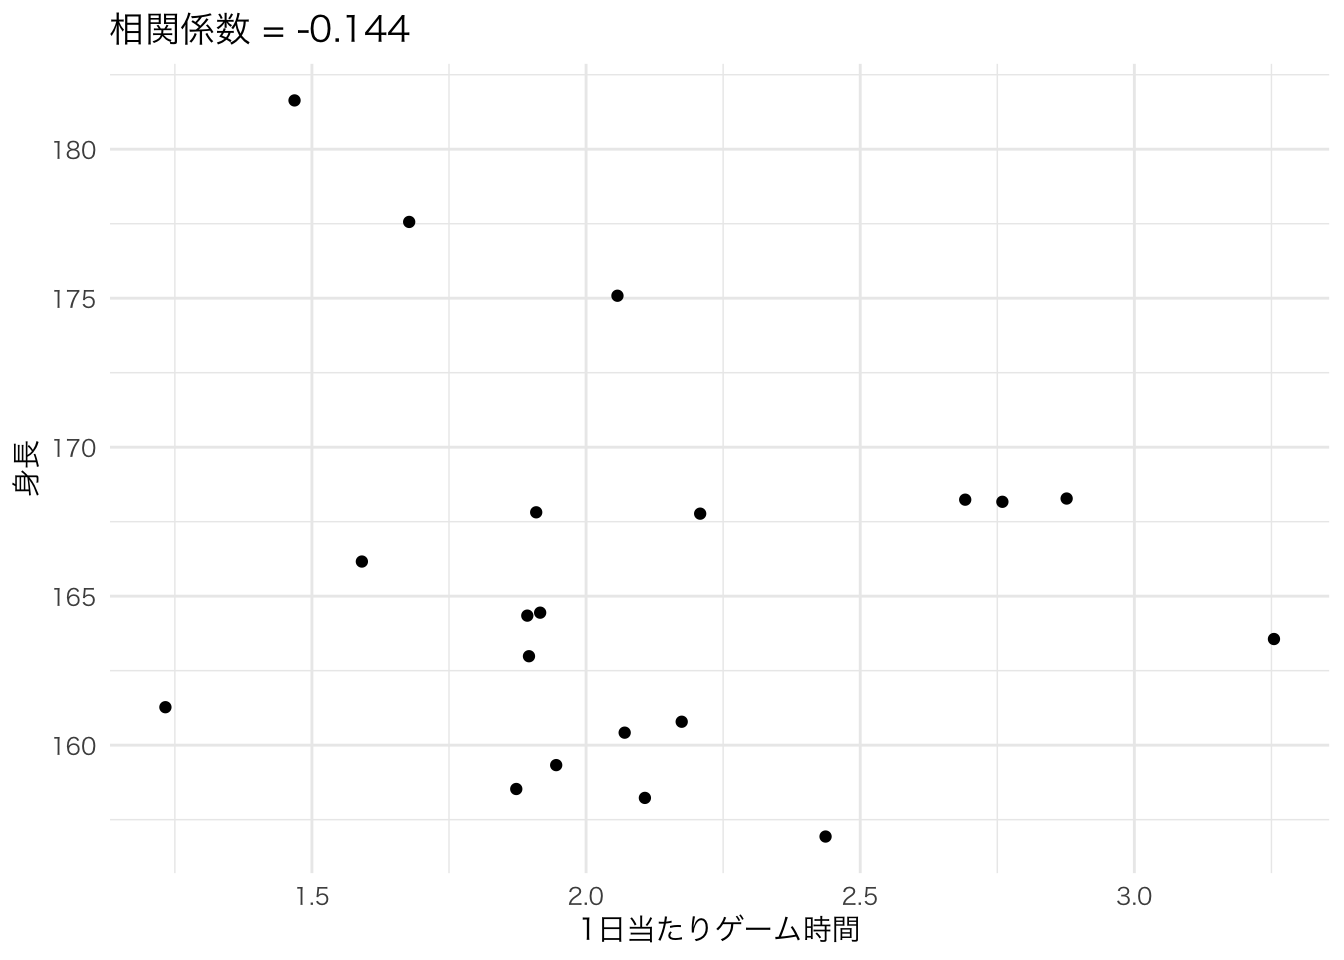
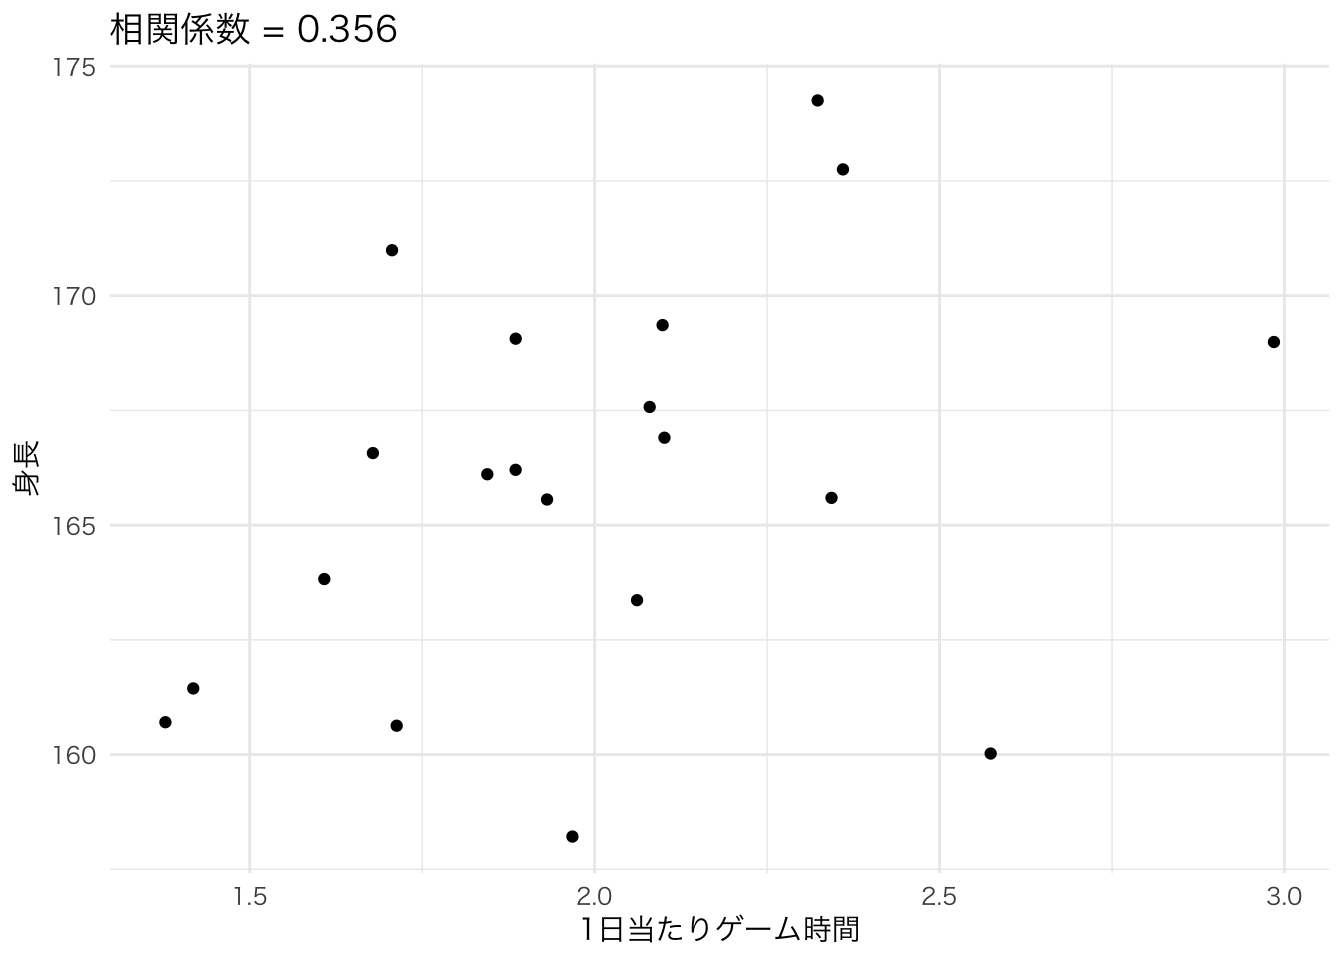
no message

diff --git a/oop_intro/index.html b/oop_intro/index.html
@@ -6,7 +6,7 @@
 
         <meta charset="utf-8">
         <meta name="viewport" content="width=device-width, initial-scale=1">
-        <title>Rによるオブジェクト指向プログラミング入門（作成中）</title>
+        <title>Rによるオブジェクト指向プログラミング入門</title>
         
         <style>
 
@@ -105,7 +105,7 @@
         <nav class="navbar navbar-default navbar-fixed-top">
             <div class="container">
                 <div class="navbar-header">
-                    <a class="navbar-brand visible-xs" href="#">Rによるオブジェクト指向プログラミング入門（作成中）</a>
+                    <a class="navbar-brand visible-xs" href="#">Rによるオブジェクト指向プログラミング入門</a>
                     <button class="navbar-toggle" data-target=".navbar-collapse" data-toggle="collapse">
                         <span class="icon-bar"></span>
                         <span class="icon-bar"></span>
@@ -155,7 +155,7 @@
 <main>
 
     <div>
-        <h2><center>Rによるオブジェクト指向プログラミング入門（作成中）</center></h2>
+        <h2><center>Rによるオブジェクト指向プログラミング入門</center></h2>
         <h5><center></center></h5>
         <center>
 <a href="https://www.jaysong.net/tags/r"><kbd class="item-tag">R</kbd></a>
@@ -300,7 +300,7 @@ class(X)</code></pre>
 <pre class="r"><code>summary</code></pre>
 <pre><code>## function (object, ...) 
 ## UseMethod(&quot;summary&quot;)
-## &lt;bytecode: 0x7fafa19f4970&gt;
+## &lt;bytecode: 0x7f953987a570&gt;
 ## &lt;environment: namespace:base&gt;</code></pre>
 <p>しかし、多態性を持つ関数の内部を見ることはできません。そもそも<code>summary()</code>関数はクラスごとに異なるコードを持っているため、<code>summary</code>だけでは「どのクラスの<code>summary()</code>か」が分かりません。それでもRには<code>summary()</code>関数が存在し、それをジェネリック関数（generic function）と呼びます。内部には<code>UseMethod("summary")</code>のみが書かれており、これは「この<code>summary()</code>関数は様々なクラスのメソッドとして機能するぞ」と宣言しているだけです。各クラスに対応したメソッドの内部を見るには<code>getS3method("メソッド名", "クラス名")</code>を使います。<code>summary()</code>メソッドは<code>numeric</code>型が別途指定されていないため、<code>"defualt"</code>となります。</p>
 <pre class="r"><code>getS3method(&quot;summary&quot;, &quot;default&quot;)</code></pre>
@@ -355,7 +355,7 @@ class(X)</code></pre>
 ##     class(value) &lt;- c(&quot;summaryDefault&quot;, &quot;table&quot;)
 ##     value
 ## }
-## &lt;bytecode: 0x7fafa19f5770&gt;
+## &lt;bytecode: 0x7f953987b370&gt;
 ## &lt;environment: namespace:base&gt;</code></pre>
 <p>Rにはメソッドがクラス内部で定義されず、別途の<code>メソッド名.クラス名()</code>といった関数として作成されています。そしてジェネリック関数によって一つの関数の「ように」まとまっています。このように、ジェネリック関数経由でメソッドを呼び出すことをメソッド・ディスパッチ（method dispatch）と呼びます。</p>
 </div>
@@ -401,12 +401,12 @@ My_Score1 &lt;- Make_Score1(x = rnorm(10, 50, 10),
 
 My_Score1 # My_Score1の内部を見る</code></pre>
 <pre><code>## $Score1
-##  [1] 65.11747 60.40615 57.31302 41.64439 58.23178 52.41552 50.05545 57.46426
-##  [9] 43.18861 50.82948
+##  [1] 61.28391 49.16355 51.72504 41.71192 48.09779 60.65923 41.41648 47.84035
+##  [9] 47.12542 74.27878
 ## 
 ## $Score2
-##  [1] 43.42421 61.10854 53.54532 69.88326 67.57307 62.24335 44.75093 38.15250
-##  [9] 54.71748 42.09962
+##  [1] 52.33566 44.51321 62.51594 46.09150 45.06853 45.56544 41.14395 43.26956
+##  [9] 36.42861 50.42532
 ## 
 ## attr(,&quot;class&quot;)
 ## [1] &quot;Score&quot;</code></pre>
@@ -426,12 +426,12 @@ My_Score2 &lt;- Make_Score2(x = rnorm(10, 50, 10),
 
 My_Score2 # My_Score2の内部を見る</code></pre>
 <pre><code>## $Score1
-##  [1]  6.86066 60.34945 41.07746 47.54525 62.91181 48.89343 60.80297 56.80982
-##  [9] 58.24640 36.73937
+##  [1] 49.95150 39.72748 42.76709 52.59472 48.26455 47.73404 53.69135 45.51753
+##  [9] 60.91629 60.85190
 ## 
 ## $Score2
-##  [1] 64.16054 65.86071 41.21118 41.98999 59.68751 38.14422 34.99237 53.32318
-##  [9] 64.77759 45.65853
+##  [1] 46.12460 60.64478 41.61907 51.60271 56.16143 41.63420 41.57449 41.02641
+##  [9] 50.24459 55.43438
 ## 
 ## attr(,&quot;class&quot;)
 ## [1] &quot;Score&quot;</code></pre>
@@ -454,8 +454,8 @@ My_Score2 # My_Score2の内部を見る</code></pre>
 mean(c(1, 3, 5, 7, 9, 11)) # R内蔵関数のmean()を使う</code></pre>
 <pre><code>## [1] 6</code></pre>
 <pre class="r"><code>mean(My_Score1) # Scoreクラスのメソッドであるmean()を使う</code></pre>
-<pre><code>## [1] 53.66661
-## [1] 53.74983</code></pre>
+<pre><code>## [1] 52.33025
+## [1] 46.73577</code></pre>
 <p><code>mean(c(1, 3, 5, 7, 9, 11))</code>は引数がnumeric型ベクトルであるため、既存の<code>mean()</code>関数が使用されます。一方、<code>mean(My_Score1)</code>は引数がScoreクラスであるため、<code>mean.Score()</code>が使用されます。このように<code>mean_Score()</code>のような別途の関数を作る必要なく、既存の関数名が利用できます。実際、<code>methods(mean)</code>を実行すると、Scoreクラスのメソッドとして<code>mean()</code>関数が用意されたことを確認できます。</p>
 <pre class="r"><code>methods(mean)</code></pre>
 <pre><code>## [1] mean.Date        mean.default     mean.difftime    mean.POSIXct    
@@ -507,8 +507,8 @@ my_func.Cat &lt;- function(cat) {
 ## see &#39;?methods&#39; for accessing help and source code</code></pre>
 <p><code>my_func()</code>関数はScoreとCatといった2種類のクラスで使われることが確認できます。それでは問題なく作動するかを確認してみましょう。<code>My_Score1</code>と<code>My_Cat</code>を、それぞれ<code>my_func()</code>に渡します。</p>
 <pre class="r"><code>my_func(My_Score1)</code></pre>
-<pre><code>## [1] 53.66661
-## [1] 53.74983</code></pre>
+<pre><code>## [1] 52.33025
+## [1] 46.73577</code></pre>
 <pre class="r"><code>my_func(My_Cat)</code></pre>
 <pre><code>## [1] &quot;矢内: にゃーにゃー&quot;</code></pre>
 <p>同じ関数名でも、オブジェクトのクラスによって異なる処理が行われることが分かります。</p>
@@ -577,24 +577,24 @@ class(Cor_Obj)</code></pre>
 <pre class="r"><code>str(Cor_Obj)</code></pre>
 <pre><code>## List of 4
 ##  $ data    :&#39;data.frame&#39;:    20 obs. of  2 variables:
-##   ..$ x: num [1:20] 2.21 2.17 2.69 1.87 1.47 ...
-##   ..$ y: num [1:20] 168 161 168 159 182 ...
+##   ..$ x: num [1:20] 2.36 2.08 1.89 2.98 2.32 ...
+##   ..$ y: num [1:20] 173 168 169 169 174 ...
 ##  $ var_name: chr [1:2] &quot;1日当たりゲーム時間&quot; &quot;身長&quot;
-##  $ cor     : Named num -0.144
+##  $ cor     : Named num 0.356
 ##   ..- attr(*, &quot;names&quot;)= chr &quot;cor&quot;
-##  $ cor_ci  : num [1:2] -0.551 0.319
+##  $ cor_ci  : num [1:2] -0.103 0.69
 ##   ..- attr(*, &quot;conf.level&quot;)= num 0.95
 ##  - attr(*, &quot;class&quot;)= chr &quot;My_Cor_Object&quot;</code></pre>
 <p><code>Cor_Obj</code>には元のデータがデータフレームとして格納され（<code>$data</code>）、それぞれの変数名（<code>$var_name</code>）、相関係数（<code>$cor</code>）、相関係数の95%信頼区間（<code>$cor_ci</code>）が<code>Cor_Obj</code>の中に入っています。本質的にはリスト型のデータ構造ですが、クラス名が<code>My_Cor_Object</code>になっているだけです。</p>
 <p>この<code>My_Cor_Object</code>クラスには3つのメソッド（専用関数）が用意されており、<code>print()</code>、<code>summary()</code>、<code>plot()</code>です。<code>print()</code>と<code>summary()</code>は同じ関数で、<code>x</code>と<code>y</code>の平均値、そして相関係数と信頼区間を出力します。<code>plot()</code>は散布図と相関係数を出力します。実際の例を見てみましょう。</p>
 <pre class="r"><code>print(Cor_Obj)</code></pre>
-<pre><code>## 1日当たりゲーム時間の平均値: 2.102
-## 身長の平均値: 165.578
-## 相関係数: -0.144 [-0.551, 0.319]</code></pre>
+<pre><code>## 1日当たりゲーム時間の平均値: 1.997
+## 身長の平均値: 165.907
+## 相関係数: 0.356 [-0.103, 0.690]</code></pre>
 <pre class="r"><code>summary(Cor_Obj) # summary()はprint()と同じ</code></pre>
-<pre><code>## 1日当たりゲーム時間の平均値: 2.102
-## 身長の平均値: 165.578
-## 相関係数: -0.144 [-0.551, 0.319]</code></pre>
+<pre><code>## 1日当たりゲーム時間の平均値: 1.997
+## 身長の平均値: 165.907
+## 相関係数: 0.356 [-0.103, 0.690]</code></pre>
 <pre class="r"><code>plot(Cor_Obj)</code></pre>
 <p><img src="/oop_intro_files/figure-html/My_Cor_Object_Exam1-1.png" width="672" /></p>
 <p>既存の<code>cor.test()</code>で作成される<code>"htest"</code>クラスに比べ、<code>"My_Cor_Object"</code>クラスは各変数の平均値が名前と一緒に表示され、<code>plot()</code>で簡単に散布図が作成できる大変便利なクラスです。このMy_Cor_Objectクラスとそのメソッドの構造を図示したものが以下の図です。</p>

diff --git a/tags/r/page/2/index.html b/tags/r/page/2/index.html
@@ -250,7 +250,7 @@
     
     
 
-    <h4><center><a href="/oop_intro/">Rによるオブジェクト指向プログラミング入門（作成中）</a></center></h4>
+    <h4><center><a href="/oop_intro/">Rによるオブジェクト指向プログラミング入門</a></center></h4>
     <h5><center>May 20, 2020</center></h5>
     <center>
 <a href="https://www.jaysong.net/tags/r"><kbd class="item-tag">R</kbd></a>

diff --git a/tags/プログラミング/index.html b/tags/プログラミング/index.html
@@ -189,7 +189,7 @@
     
     
 
-    <h4><center><a href="/oop_intro/">Rによるオブジェクト指向プログラミング入門（作成中）</a></center></h4>
+    <h4><center><a href="/oop_intro/">Rによるオブジェクト指向プログラミング入門</a></center></h4>
     <h5><center>May 20, 2020</center></h5>
     <center>
 <a href="https://www.jaysong.net/tags/r"><kbd class="item-tag">R</kbd></a>

diff --git a/tutorial/index.html b/tutorial/index.html
@@ -195,7 +195,7 @@
 <li><a href="../ggplot_intro3/">ggplot2入門 [応用編]</a></li>
 </ul></li>
 <li><a href="../rmarkdown-intro/">R Markdown入門</a></li>
-<li><a href="../oop_intro/">オブジェクト指向型プログラミング入門</a>（作成中）
+<li><a href="../oop_intro/">オブジェクト指向型プログラミング入門</a>
 <br></li>
 </ul>
 
